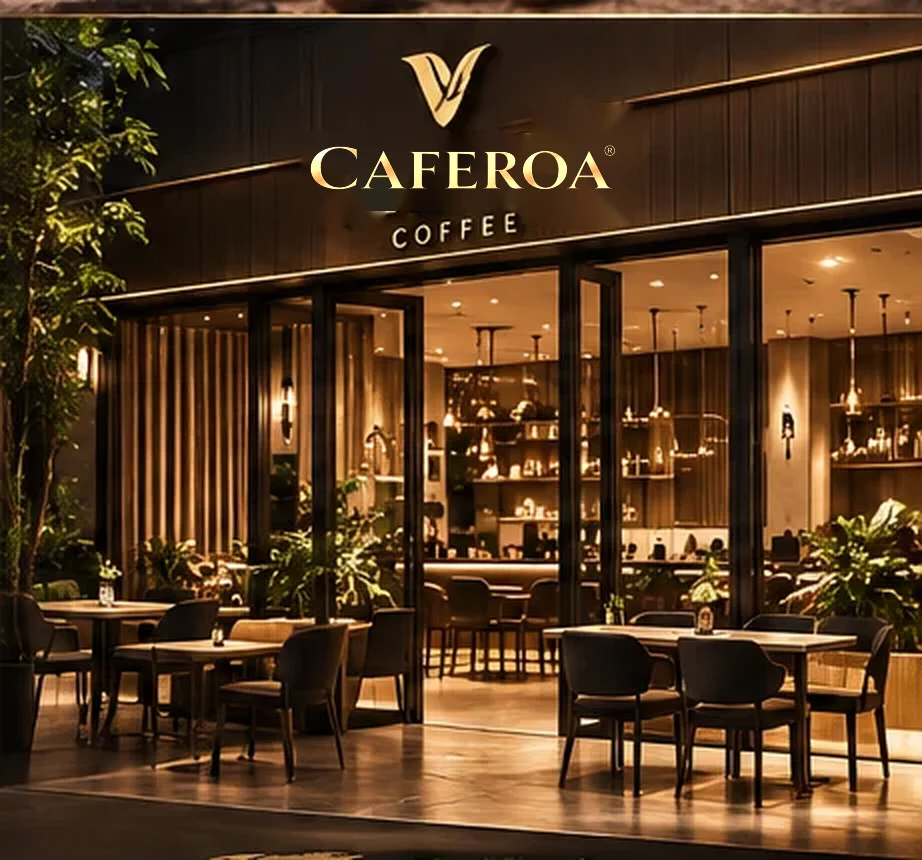
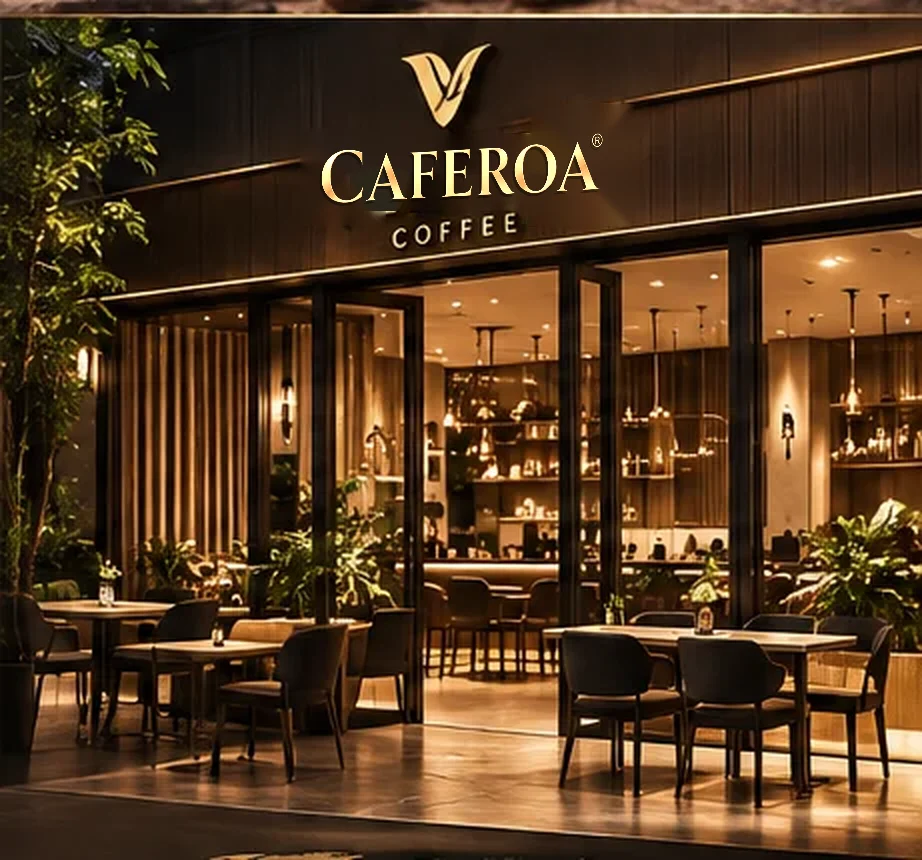
CAFEROA: căn chữ biển hiệu theo góc nghiêng, song song chữ COFFEE
Claude-Session: https://claude.ai/code/session_011QZR96eJQfzPpLKHuDcdym

Changed region(s): [[0.3341, 0.1512, 0.6681, 0.2419]]

diff --git a/caferoa/index.html b/caferoa/index.html
@@ -163,7 +163,7 @@ footer .wrap{display:grid;grid-template-columns:2fr 1fr 1fr;gap:24px}footer b{co
 <section class="cafe" id="cafe"><div class="wrap">
 <div class="tieude"><div class="eyebrow">Café</div><h2>Không gian café CAFEROA</h2><p>Gam đen – vàng champagne, gỗ ấm và ánh sáng dịu: nơi mỗi ly cà phê trở thành một khoảnh khắc đáng nhớ.</p></div>
 <div class="gallery">
-<figure><img src="images/caferoa-cua-hang.webp" alt="Mặt tiền café CAFEROA" loading="lazy" width="461" height="430"><figcaption>Mặt tiền café CAFEROA</figcaption></figure>
+<figure><img src="images/caferoa-cua-hang.webp?v=2" alt="Mặt tiền café CAFEROA" loading="lazy" width="461" height="430"><figcaption>Mặt tiền café CAFEROA</figcaption></figure>
 <figure><img src="images/velaro-khong-gian-1.webp" alt="Không gian café CAFEROA với đèn vàng" loading="lazy" width="1200" height="800"><figcaption>Không gian chính</figcaption></figure>
 <figure><img src="images/velaro-quay-bar.webp" alt="Quầy bar đá marble và máy espresso" loading="lazy" width="1200" height="800"><figcaption>Quầy bar espresso</figcaption></figure>
 <figure><img src="images/velaro-khong-gian-2.webp" alt="Khu ngồi sofa ấm cúng" loading="lazy" width="1200" height="800"><figcaption>Khu sofa</figcaption></figure>
